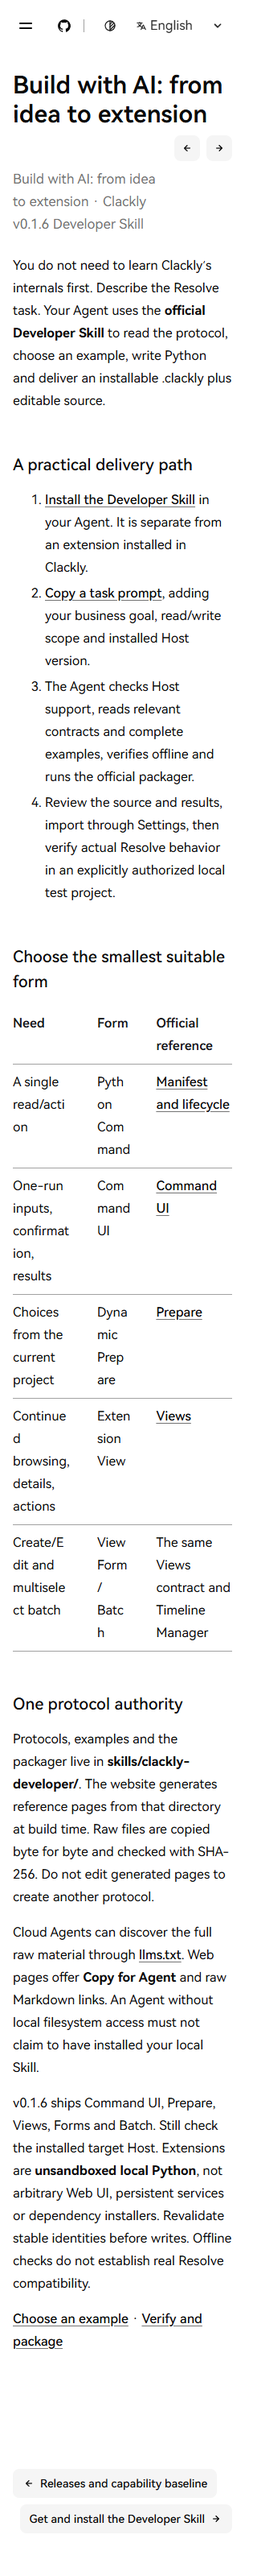
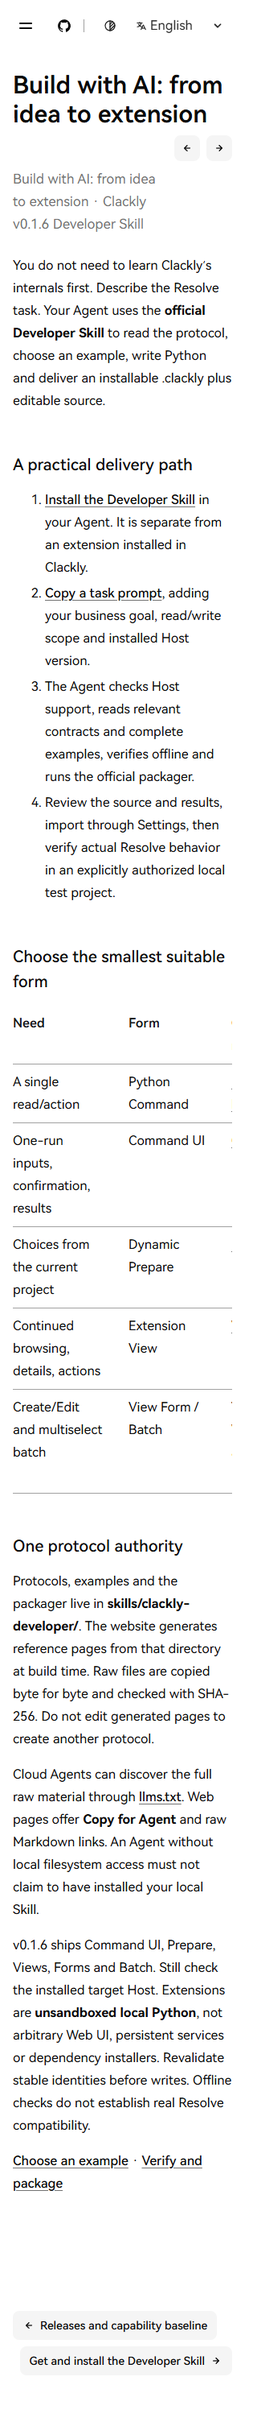
fix(docs): keep translated navigation and mobile tables readable
Add browser regression coverage for wrapped sidebar labels and keyboard scrolling of bilingual reference tables.

Assisted-by: Cindy (https://cindy.app)

Changed region(s): [[0.0312, 0.0, 0.875, 0.9291], [0.0938, 0.96, 0.8125, 0.991]]

diff --git a/site/tests/site.spec.ts b/site/tests/site.spec.ts
@@ -106,3 +106,28 @@ test('theme switch changes the reading surface and remains usable', async ({ pag
   await expect(page.locator('html')).not.toHaveAttribute('data-theme', before!);
   await expect(page.locator('h1')).toBeVisible();
 });
+
+test('long translated navigation labels and mobile reference tables remain readable', async ({ page }) => {
+  for (const locale of ['', 'en/']) {
+    await page.setViewportSize({ width: 1440, height: 960 });
+    await page.goto('./' + locale + 'docs/developer/');
+    const links = page.locator('.sidebar-content .entry-link');
+    const boxes = await links.evaluateAll(items => items.map(item => {
+      const box = item.getBoundingClientRect();
+      return { top: box.top, bottom: box.bottom };
+    }));
+    expect(boxes.length).toBeGreaterThan(10);
+    for (let i = 1; i < boxes.length; i++) expect(boxes[i].top).toBeGreaterThanOrEqual(boxes[i - 1].bottom);
+    await page.setViewportSize({ width: 320, height: 960 });
+    for (const slug of ['developer/', 'developer/examples/']) {
+      await page.goto('./' + locale + 'docs/' + slug);
+      const table = page.locator('table');
+      await expect(table).toHaveAttribute('tabindex', '0');
+      expect(await table.locator('td').first().evaluate(el => el.getBoundingClientRect().width)).toBeGreaterThanOrEqual(128);
+      expect(await page.evaluate(() => document.documentElement.scrollWidth <= innerWidth)).toBeTruthy();
+      await table.focus();
+      await page.keyboard.press('ArrowRight');
+      await expect.poll(() => table.evaluate(el => el.scrollLeft)).toBeGreaterThan(0);
+    }
+  }
+});

diff --git a/site/src/styles/docs.css b/site/src/styles/docs.css
@@ -7,6 +7,9 @@
 .sl-markdown-content { overflow-wrap: anywhere; }
 .sl-markdown-content a { text-underline-offset: .2em; }
 .sl-markdown-content pre { overflow-x: auto; }
+.sidebar-content .entry-link { height: auto; min-height: 30px; line-height: 1.65; }
+.sl-markdown-content table { display: block; max-width: 100%; overflow-x: auto; }
+.sl-markdown-content :is(th, td) { min-width: 8rem; overflow-wrap: normal; }
 html { scrollbar-color: #7d8088 transparent; }
 
 /* Reuse Ameow’s mobile pagination fix for long translated labels. */

diff --git a/site/evidence/README.md b/site/evidence/README.md
@@ -6,7 +6,7 @@ Source branch: docs/issue-11-site. Website baseline: public v0.1.6. Original che
 
 - Astro 7.3.8 / Starlight 0.41.7 / Black Theme 0.7.1 production build passed under Node 22.19.0.
 - Static verification passed: 41 HTML pages, 19 matching Chinese/English documentation routes, 2,935 local URLs/assets/fragments and 19 byte-exact Developer Skill source exports with SHA-256 inventory.
-- 11/11 Playwright tests passed against the built preview using headless Edge 156.0.4314.58 on Windows. Tests exercise both home-to-doc-to-AI routes, six prompts per language with real clipboard readback, clipboard denial recovery, authoritative Markdown retrieval/copy, locale-preserving language switch, Pagefind search, keyboard mobile navigation, theme switch and responsive asset/error/overflow checks.
+- 12/12 Playwright tests passed against the built preview using headless Edge 156.0.4314.58 on Windows. Tests exercise both home-to-doc-to-AI routes, six prompts per language with real clipboard readback, clipboard denial recovery, authoritative Markdown retrieval/copy, locale-preserving language switch, Pagefind search, keyboard mobile navigation, theme switch, readable non-overlapping translated sidebar links, keyboard-scrollable mobile tables and responsive asset/error/overflow checks.
 - Viewports captured: 1440, 390 and 320 pixels. No page error or asset HTTP error appeared in the responsive run.
 - Original product screenshot was generated with the existing pinned-recent renderer evidence scenario. Main-to-v0.1.6 renderer source diff is empty. Screenshot data are deterministic fixtures; this is not a native Resolve capture.
 - Mechanical design detector ran once over the four changed frontend files. It reported only advisory mismatches between literal neutral colors/type steps/radii and the summarized design tokens. No hard design bans were reported. Independent finish review is recorded in Issue #11/PR.
